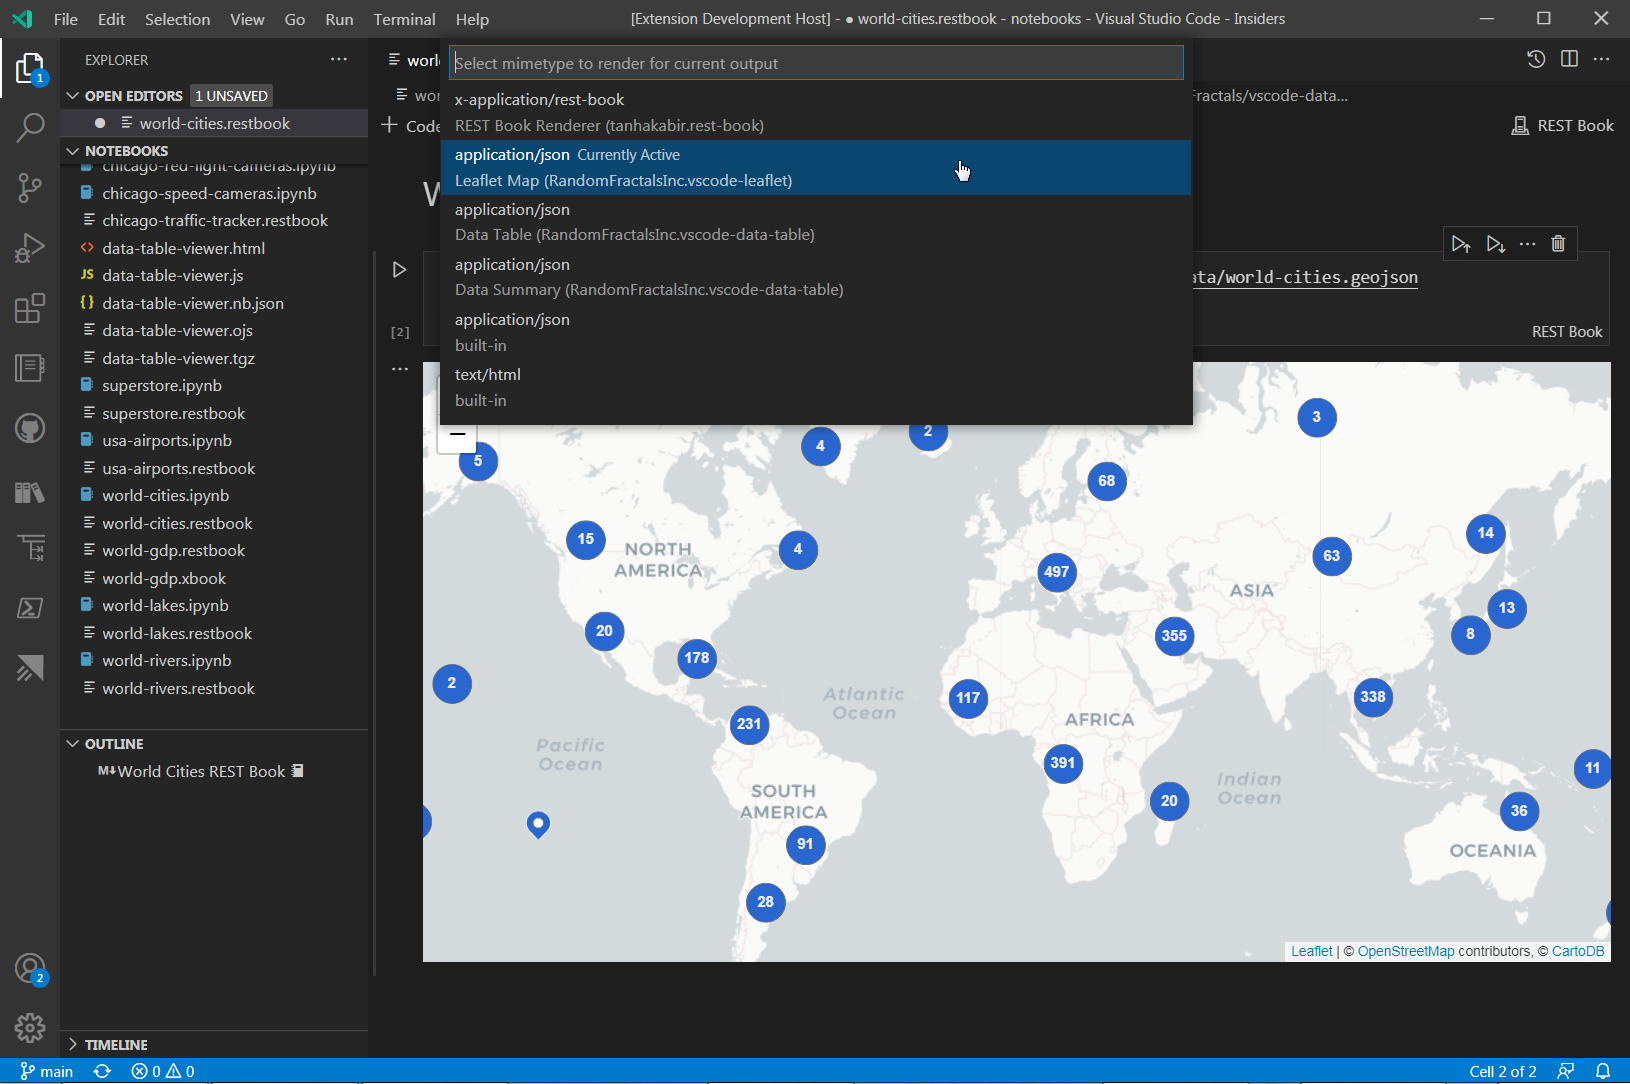
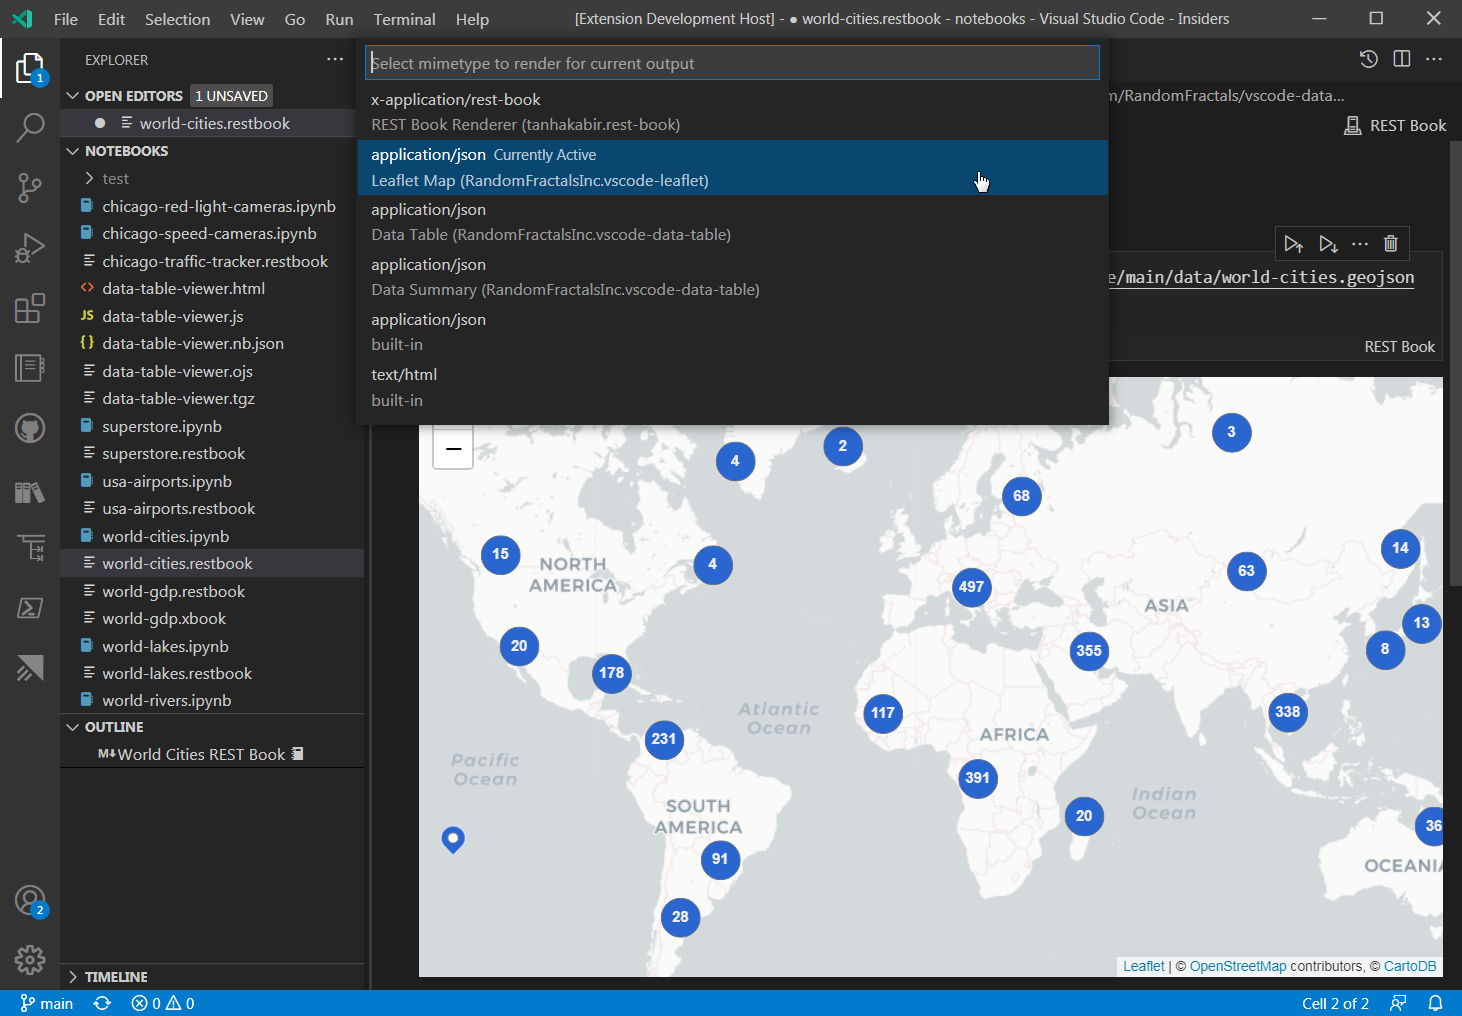
update text output mime types and pic in docs for MVP release (#33)

diff --git a/README.md b/README.md
@@ -27,8 +27,8 @@ Leaflet Map 🗺 Notebook 📓 cell ⌗ output renderer uses [Leaflet](https:
 with [clustered markers](https://github.com/RandomFractals/vscode-leaflet/issues/8#issuecomment-894707382), [location information popups](https://github.com/RandomFractals/vscode-leaflet/issues/28#issuecomment-894812944) and [hover tooltips](https://github.com/RandomFractals/vscode-leaflet/issues/30#issuecomment-894824576)
 - View `CSV` and `JSON` text data in a scrollable container with [`code pre-wrap`](https://developer.mozilla.org/en-US/docs/Web/HTML/Element/code):
 
-![Leaflet Map 🗺 GeoJSON](https://github.com/RandomFractals/vscode-leaflet/blob/main/docs/images/leaflet-map-geojson.png?raw=true 
- "Leaflet Map 🗺 GeoJSON")
+![Leaflet Map 🗺 Text Output](https://github.com/RandomFractals/vscode-leaflet/blob/main/docs/images/leaflet-map-text-output.png?raw=true 
+ "Leaflet Map 🗺 Text Output")
 
 # 🗺 Examples
 
